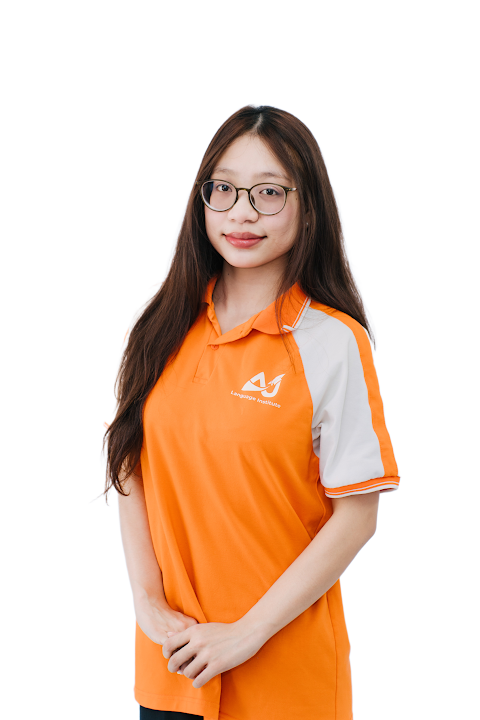
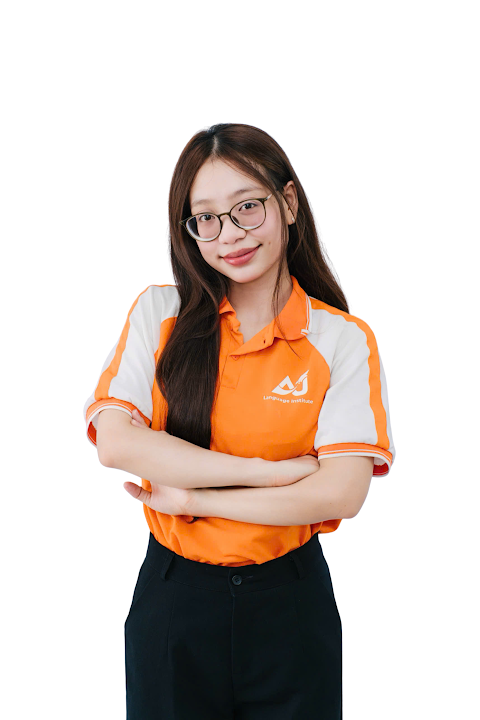
feat: update photos for 4 nominees and clean up teacher names (remove Co prefix)

diff --git a/src/constants/avatars.ts b/src/constants/avatars.ts
@@ -29,6 +29,7 @@ export const NOMINEE_AVATARS: Record<string, string> = {
   'mk|Đào Quế Anh': '/avatars/mk-dao-que-anh.jpg',
   'mk|Vũ Hùng Dương': '/avatars/mk-vu-hung-duong.jpg',
   'mk|Nguyễn Thu Khương Anh': '/avatars/mk-nguyen-thu-khuong-anh.jpg',
+  'mk|Lương Thị Kim Oanh': '/avatars/mk-luong-thi-kim-oanh.jpg',
   'ptd|Bùi Thuý Nga': '/avatars/ptd-bui-thuy-nga.jpg',
   'ptd|Hoàng Tiến Minh': '/avatars/ptd-hoang-tien-minh.jpg',
   'ptd|Hà Phương Ngân': '/avatars/ptd-ha-phuong-ngan.jpg',
@@ -36,12 +37,12 @@ export const NOMINEE_AVATARS: Record<string, string> = {
   'ptd|Nguyễn Anh Đức': '/avatars/ptd-nguyen-anh-duc.jpg',
   'ptd|Trần Nhật Tài': '/avatars/ptd-tran-nhat-tai.jpg',
   'ptd|Nguyễn Thị Khánh Linh': '/avatars/ptd-nguyen-thi-khanh-linh.jpg',
-  'ptd|Cô Vũ Thị Ngân': '/avatars/ptd-co-vu-thi-ngan.jpg',
-  'ptd|Cô Trương Ánh Ngọc': '/avatars/ptd-co-truong-anh-ngoc.jpg',
+  'ptd|Vũ Thị Ngân': '/avatars/ptd-vu-thi-ngan.jpg',
+  'ptd|Trương Ánh Ngọc': '/avatars/ptd-truong-anh-ngoc.jpg',
   'ptd|Phạm Minh Hương': '/avatars/ptd-pham-minh-huong.jpg',
   'ptd|Trần Thị Kim Huệ': '/avatars/ptd-tran-thi-kim-hue.jpg',
   'ptd|Trần Yến Nhi': '/avatars/ptd-tran-yen-nhi.jpg',
-  'md|Cô Minh Phương': '/avatars/md-co-minh-phuong.jpg',
+  'md|Phan Thị Minh Phương': '/avatars/md-phan-thi-minh-phuong.jpg',
   'md|Hoàng Quang Đức': '/avatars/md-hoang-quang-duc.jpg',
   'hn|Nguyễn Nhật Long': '/avatars/hn-nguyen-nhat-long.jpg',
   'hn|Lê Tú Anh': '/avatars/hn-le-tu-anh.jpg',

diff --git a/src/constants/campuses.ts b/src/constants/campuses.ts
@@ -55,15 +55,15 @@ export const CAMPUSES_DATA: CampusItem[] = [
       'Nguyễn Anh Đức',
       'Trần Nhật Tài',
       'Nguyễn Thị Khánh Linh',
-      'Cô Vũ Thị Ngân',
-      'Cô Trương Ánh Ngọc',
+      'Vũ Thị Ngân',
+      'Trương Ánh Ngọc',
     ],
     cm: ['Phạm Minh Hương', 'Trần Thị Kim Huệ', 'Trần Yến Nhi'],
   },
   {
     id: 'md',
     name: 'Mỹ Đình',
-    gv: ['Cô Minh Phương', 'Hoàng Quang Đức'],
+    gv: ['Phan Thị Minh Phương', 'Hoàng Quang Đức'],
     cm: [],
   },
   {
